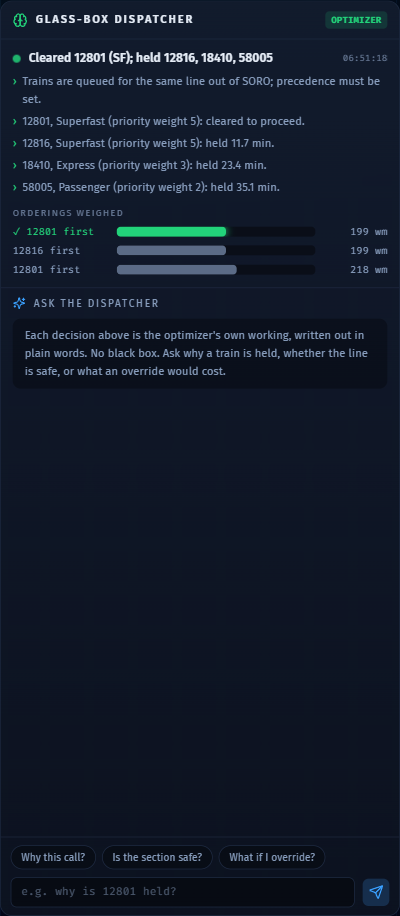
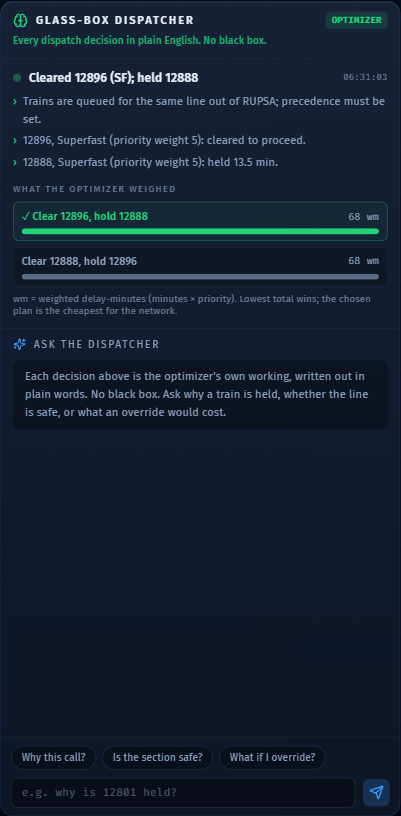
Rebuild deck with the current product and honest numbers
- Slide 4 now leads with 25% (was 20%) and the tangible figures: about
  1.46 lakh passenger-minutes saved on the live peak run, premier trains 33%
  less late. Matches what the live app shows, so the deck stands alone.
- Re-captured all three product shots from the improved UI: the dashboard with
  the new impact hero, the glass-box panel showing the explicit "what the
  optimizer weighed" trade, and the COLLISION PREVENTED safety moment.
- Rebuilt Pravaah-Deck.pptx (10 slides) from the refreshed renders.

diff --git a/public/slides.html b/public/slides.html
@@ -133,14 +133,15 @@
       </div>
     </section>
 
-    <!-- 4 RESULT 20% -->
+    <!-- 4 RESULT 25% -->
     <section class="slide center" id="s4">
       <span class="kicker" style="color: var(--muted)">The result</span>
-      <div class="bignum" style="color: var(--green); text-shadow: 0 0 80px rgba(34, 211, 122, 0.4); margin-top: 30px">20%</div>
-      <div class="biglabel">less delay than dispatching by hand</div>
+      <div class="bignum" style="color: var(--green); text-shadow: 0 0 80px rgba(34, 211, 122, 0.4); margin-top: 30px">25%</div>
+      <div class="biglabel">less weighted delay than dispatching by hand</div>
       <div class="bigsub">
-        Same trains, same track. The AI just sets smarter precedence at every crossing. It does not move more
-        trains, it protects the premier ones.
+        On the live peak-hour run: about <b style="color: var(--ink)">1.46 lakh passenger-minutes</b> saved, and premier
+        trains — Superfast and above — reach their destination <b style="color: var(--ink)">33% sooner</b>, roughly 27 minutes
+        each, because the AI protects them at every crossing. Same trains, same track, smarter precedence.
       </div>
     </section>
 